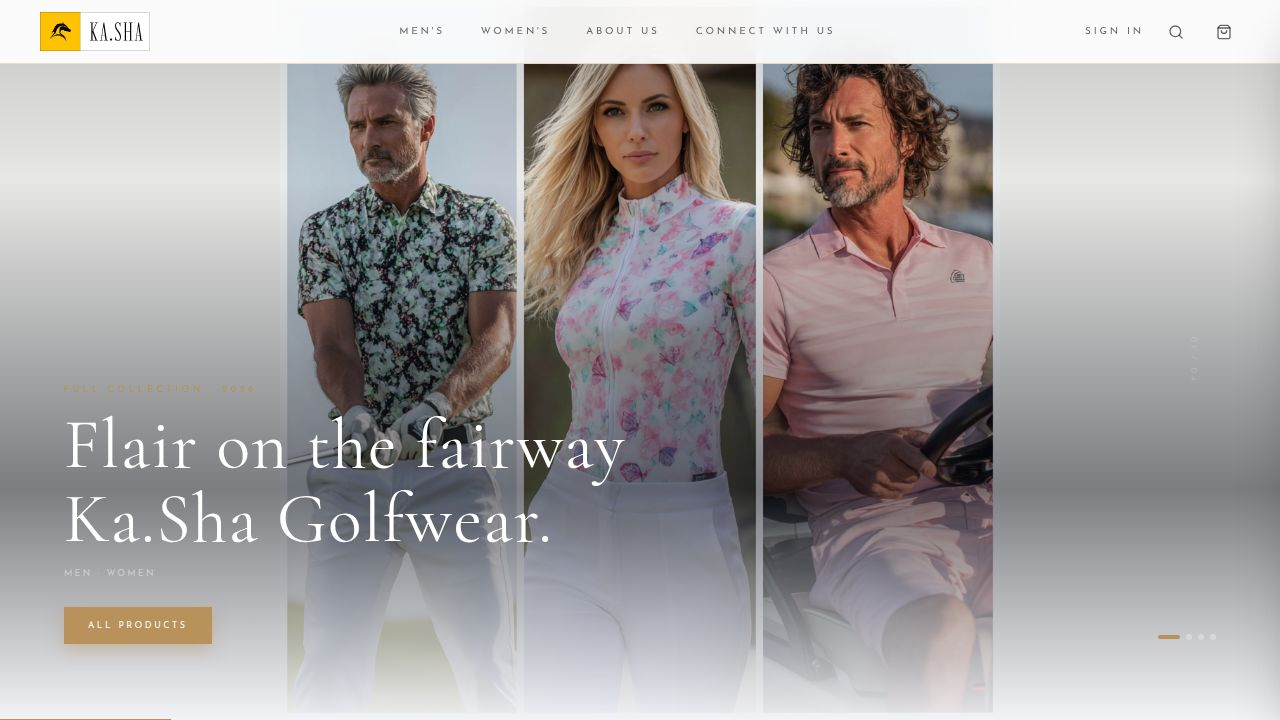
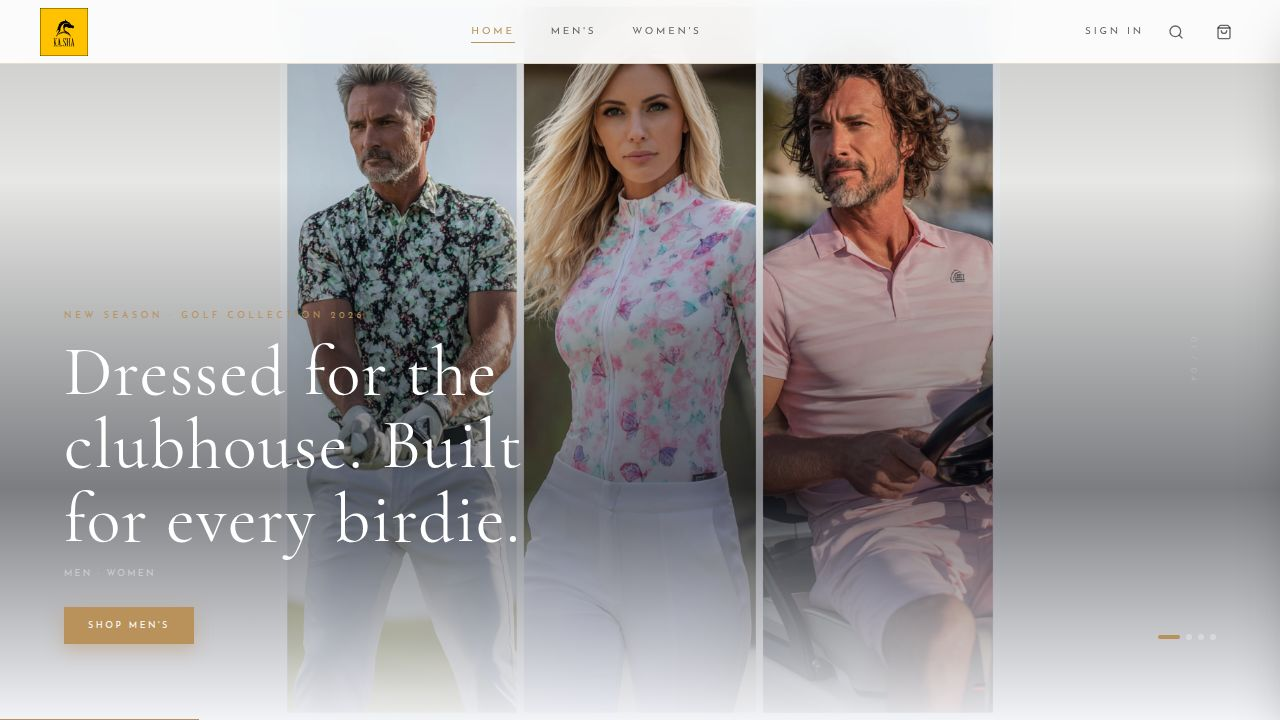
Restored to '608fa75c9377eec898944950cd74e1c2502470fe'
Replit-Restored-To: 608fa75c9377eec898944950cd74e1c2502470fe

diff --git a/artifacts/kasha/src/pages/home.tsx b/artifacts/kasha/src/pages/home.tsx
@@ -7,10 +7,10 @@ import { SHOW_KIDS, SHOW_CUSTOMIZATION } from "@/lib/features";
 const GOLD       = "#B8925A";
 const GOLD_LIGHT = "#D4A96A";
 
-// Cool-toned premium palette — deeper slate for richness without harshness
-const BG_PAGE    = "#E4E8F2";   // cool slate page base
-const BG_SECTION = "#D9DDE9";   // deeper section contrast
-const BG_CARD    = "#ECEEF8";   // card surface
+// Cool-toned premium palette — replaces flat bright whites with depth + hierarchy
+const BG_PAGE    = "#F2F3F7";   // cool slate-white page base
+const BG_SECTION = "#ECEEF4";   // slightly deeper for alternating sections
+const BG_CARD    = "#F7F8FB";   // card surface
 const BG_DARK    = "#0F1622";   // dark navy — bespoke card + studio bar
 
 // ─── Image paths ──────────────────────────────────────────────────────────────
@@ -103,7 +103,7 @@ const PANELS: Record<"men" | "women" | "kids", Card[]> = {
     },
     {
       href:  "/products?gender=men&type=tshirts&style=prints",
-      img:   "/images/shop/men_bottoms.png",
+      img:   "/images/shop/men_flair.png",
       cat:   "T-Shirts",
       title: "Flair",
       desc:  "Statement prints & limited-run designs",
@@ -111,7 +111,7 @@ const PANELS: Record<"men" | "women" | "kids", Card[]> = {
     },
     {
       href:  "/products?gender=men&type=bottoms",
-      img:   "/images/shop/men_flair.png",
+      img:   "/images/shop/men_bottoms.png",
       cat:   "Bottoms",
       title: "Pro Tour Trouser",
       desc:  "Glove dock · Tee holder · 4-way stretch",
@@ -235,6 +235,7 @@ const BULK = [
 // ─── CategoryCard ─────────────────────────────────────────────────────────────
 function CategoryCard({ c }: { c: Card }) {
   if (c.bespoke) {
+    // Dark navy card — exactly as wireframe: #0F1622, gold border
     return (
       <Link
         href={c.href}
@@ -249,17 +250,19 @@ function CategoryCard({ c }: { c: Card }) {
           (e.currentTarget as HTMLElement).style.boxShadow = "none";
         }}
       >
+        {/* Icon area */}
         <div style={{ height: 300, display: "flex", alignItems: "center", justifyContent: "center" }}>
           <div style={{ textAlign: "center", opacity: 0.25 }}>
             <div style={{ fontFamily: "'Cormorant Garamond', serif", fontSize: 40, fontWeight: 200, letterSpacing: "0.3em", color: "#fff", lineHeight: 1 }}>KS</div>
-            <div style={{ fontFamily: "'Josefin Sans', sans-serif", fontSize: 12, letterSpacing: "0.3em", color: GOLD, textTransform: "uppercase", marginTop: 5 }}>{c.bespokeSub}</div>
+            <div style={{ fontFamily: "'Josefin Sans', sans-serif", fontSize: 8, letterSpacing: "0.3em", color: GOLD, textTransform: "uppercase", marginTop: 5 }}>{c.bespokeSub}</div>
           </div>
         </div>
-        <div style={{ padding: "16px 20px 20px", borderTop: "0.5px solid rgba(184,146,90,0.25)" }}>
-          <div style={{ fontFamily: "'Josefin Sans', sans-serif", fontSize: 12, letterSpacing: "0.22em", color: GOLD, textTransform: "uppercase", marginBottom: 6 }}>{c.cat}</div>
-          <div style={{ fontFamily: "'Cormorant Garamond', serif", fontSize: 22, fontWeight: 500, color: "#fff", marginBottom: 6 }}>{c.title}</div>
-          <div style={{ fontFamily: "'Josefin Sans', sans-serif", fontSize: 13, color: "rgba(255,255,255,0.45)", letterSpacing: "0.04em", lineHeight: 1.6, marginBottom: 14 }}>{c.desc}</div>
-          <span style={{ fontFamily: "'Josefin Sans', sans-serif", fontSize: 12, letterSpacing: "0.12em", textTransform: "uppercase", color: GOLD, borderBottom: "0.5px solid rgba(184,146,90,0.4)", paddingBottom: 1 }}>Design yours →</span>
+        {/* Body */}
+        <div style={{ padding: "13px 16px 16px", borderTop: "0.5px solid rgba(184,146,90,0.25)" }}>
+          <div style={{ fontFamily: "'Josefin Sans', sans-serif", fontSize: 8, letterSpacing: "0.22em", color: GOLD, textTransform: "uppercase", marginBottom: 4 }}>{c.cat}</div>
+          <div style={{ fontFamily: "'Cormorant Garamond', serif", fontSize: 16, fontWeight: 500, color: "#fff", marginBottom: 4 }}>{c.title}</div>
+          <div style={{ fontFamily: "'Josefin Sans', sans-serif", fontSize: 10, color: "rgba(255,255,255,0.4)", letterSpacing: "0.04em", lineHeight: 1.6, marginBottom: 10 }}>{c.desc}</div>
+          <span style={{ fontFamily: "'Josefin Sans', sans-serif", fontSize: 9, letterSpacing: "0.12em", textTransform: "uppercase", color: GOLD, borderBottom: "0.5px solid rgba(184,146,90,0.4)", paddingBottom: 1 }}>Design yours →</span>
         </div>
       </Link>
     );
@@ -281,27 +284,27 @@ function CategoryCard({ c }: { c: Card }) {
         (e.currentTarget as HTMLElement).style.boxShadow  = "none";
       }}
     >
-      {/* Image — objectPosition "top" keeps face/upper body in frame */}
-      <div style={{ height: 340, position: "relative", overflow: "hidden" }}>
-        <img src={c.img} alt={c.title} className="w-full h-full object-cover transition-transform duration-700 group-hover:scale-105" style={{ display: "block", objectPosition: "top center" }} />
+      {/* Image */}
+      <div style={{ height: 300, position: "relative", overflow: "hidden" }}>
+        <img src={c.img} alt={c.title} className="w-full h-full object-cover transition-transform duration-700 group-hover:scale-105" style={{ display: "block" }} />
         {c.badge && (
-          <span style={{ position: "absolute", top: 10, left: 10, background: GOLD, color: "#fff", fontFamily: "'Josefin Sans', sans-serif", fontSize: 11, letterSpacing: "0.14em", textTransform: "uppercase", padding: "3px 10px" }}>{c.badge}</span>
+          <span style={{ position: "absolute", top: 10, left: 10, background: GOLD, color: "#fff", fontFamily: "'Josefin Sans', sans-serif", fontSize: 7.5, letterSpacing: "0.16em", textTransform: "uppercase", padding: "2px 8px" }}>{c.badge}</span>
         )}
         <div style={{ position: "absolute", inset: 0, background: "linear-gradient(to top, rgba(15,18,35,0.45) 0%, transparent 55%)" }} />
       </div>
       {/* Body */}
-      <div style={{ padding: "16px 20px 20px" }}>
-        <div style={{ fontFamily: "'Josefin Sans', sans-serif", fontSize: 12, letterSpacing: "0.22em", color: GOLD, textTransform: "uppercase", marginBottom: 6 }}>{c.cat}</div>
-        <div style={{ fontFamily: "'Cormorant Garamond', serif", fontSize: 22, fontWeight: 500, color: "#1a1f2e", marginBottom: 6, lineHeight: 1.2 }}>{c.title}</div>
-        <div style={{ fontFamily: "'Josefin Sans', sans-serif", fontSize: 13, color: "rgba(30,40,80,0.55)", letterSpacing: "0.04em", lineHeight: 1.6, marginBottom: 12 }}>{c.desc}</div>
+      <div style={{ padding: "13px 16px 16px" }}>
+        <div style={{ fontFamily: "'Josefin Sans', sans-serif", fontSize: 8, letterSpacing: "0.22em", color: GOLD, textTransform: "uppercase", marginBottom: 4 }}>{c.cat}</div>
+        <div style={{ fontFamily: "'Cormorant Garamond', serif", fontSize: 16, fontWeight: 500, color: "#1a1f2e", marginBottom: 4, lineHeight: 1.2 }}>{c.title}</div>
+        <div style={{ fontFamily: "'Josefin Sans', sans-serif", fontSize: 10, color: "rgba(30,40,80,0.5)", letterSpacing: "0.04em", lineHeight: 1.6, marginBottom: 10 }}>{c.desc}</div>
         {c.tags.length > 0 && (
-          <div style={{ display: "flex", gap: 5, flexWrap: "wrap", marginBottom: 12 }}>
+          <div style={{ display: "flex", gap: 4, flexWrap: "wrap", marginBottom: 10 }}>
             {c.tags.map((t) => (
-              <span key={t} style={{ fontFamily: "'Josefin Sans', sans-serif", fontSize: 11, letterSpacing: "0.1em", padding: "3px 9px", background: BG_SECTION, color: "rgba(30,40,80,0.6)", borderRadius: 3, textTransform: "uppercase", border: "0.5px solid rgba(30,40,80,0.1)" }}>{t}</span>
+              <span key={t} style={{ fontFamily: "'Josefin Sans', sans-serif", fontSize: 7.5, letterSpacing: "0.1em", padding: "2px 7px", background: BG_SECTION, color: "rgba(30,40,80,0.55)", borderRadius: 3, textTransform: "uppercase", border: "0.5px solid rgba(30,40,80,0.08)" }}>{t}</span>
             ))}
           </div>
         )}
-        <span style={{ fontFamily: "'Josefin Sans', sans-serif", fontSize: 12, letterSpacing: "0.12em", textTransform: "uppercase", color: "#1a1f2e", borderBottom: "0.5px solid rgba(30,40,80,0.15)", paddingBottom: 1 }}>Shop →</span>
+        <span style={{ fontFamily: "'Josefin Sans', sans-serif", fontSize: 9, letterSpacing: "0.12em", textTransform: "uppercase", color: "#1a1f2e", borderBottom: "0.5px solid rgba(30,40,80,0.15)", paddingBottom: 1 }}>Shop →</span>
       </div>
     </Link>
   );
@@ -358,7 +361,7 @@ export default function Home() {
                   inset:      0,
                   width:      "100%",
                   height:     "100%",
-                  objectFit:  "cover",
+                  objectFit:  "contain",
                   transform:  i === active ? "scale(1)" : "scale(1.06)",
                   transition: "transform 8s ease-out",
                 }}
@@ -381,11 +384,11 @@ export default function Home() {
               }}>
                 <div style={{
                   fontFamily:    "'Josefin Sans', sans-serif",
-                  fontSize:      13,
-                  letterSpacing: "0.35em",
+                  fontSize:      9,
+                  letterSpacing: "0.4em",
                   color:         GOLD,
                   textTransform: "uppercase",
-                  marginBottom:  14,
+                  marginBottom:  12,
                   opacity:       i === active ? 1 : 0,
                   transform:     i === active ? "translateY(0)" : "translateY(14px)",
                   transition:    "opacity 0.7s 0.2s ease, transform 0.7s 0.2s ease",
@@ -394,12 +397,12 @@ export default function Home() {
                 </div>
                 <h1 style={{
                   fontFamily:    "'Cormorant Garamond', serif",
-                  fontSize:      "clamp(44px, 5.5vw, 72px)",
+                  fontSize:      "clamp(40px, 5.5vw, 70px)",
                   fontWeight:    400,
                   lineHeight:    1.05,
                   letterSpacing: "0.02em",
                   color:         "#fff",
-                  marginBottom:  14,
+                  marginBottom:  12,
                   opacity:       i === active ? 1 : 0,
                   transform:     i === active ? "translateY(0)" : "translateY(22px)",
                   transition:    "opacity 0.8s 0.35s ease, transform 0.8s 0.35s ease",
@@ -408,11 +411,11 @@ export default function Home() {
                 </h1>
                 <p style={{
                   fontFamily:    "'Josefin Sans', sans-serif",
-                  fontSize:      13,
-                  letterSpacing: "0.22em",
-                  color:         "rgba(255,255,255,0.65)",
+                  fontSize:      9,
+                  letterSpacing: "0.25em",
+                  color:         "rgba(255,255,255,0.45)",
                   textTransform: "uppercase",
-                  marginBottom:  28,
+                  marginBottom:  26,
                   opacity:       i === active ? 1 : 0,
                   transition:    "opacity 0.7s 0.5s ease",
                 }}>
@@ -433,10 +436,10 @@ export default function Home() {
                       background:    GOLD,
                       color:         "#fff",
                       fontFamily:    "'Josefin Sans', sans-serif",
-                      fontSize:      12,
-                      letterSpacing: "0.25em",
+                      fontSize:      9,
+                      letterSpacing: "0.28em",
                       textTransform: "uppercase",
-                      padding:       "13px 28px",
+                      padding:       "12px 24px",
                       display:       "inline-block",
                       transition:    "background 0.2s, transform 0.2s",
                       boxShadow:     "0 6px 18px rgba(184,146,90,0.4)",
@@ -453,13 +456,13 @@ export default function Home() {
                       style={{
                         background:    "rgba(255,255,255,0.08)",
                         backdropFilter:"blur(8px)",
-                        color:         "rgba(255,255,255,0.82)",
+                        color:         "rgba(255,255,255,0.72)",
                         fontFamily:    "'Josefin Sans', sans-serif",
-                        fontSize:      12,
-                        letterSpacing: "0.25em",
+                        fontSize:      9,
+                        letterSpacing: "0.28em",
                         textTransform: "uppercase",
-                        padding:       "12px 24px",
-                        border:        "0.5px solid rgba(255,255,255,0.38)",
+                        padding:       "11px 24px",
+                        border:        "0.5px solid rgba(255,255,255,0.32)",
                         display:       "inline-block",
                         transition:    "border-color 0.2s, color 0.2s",
                       }}
@@ -524,12 +527,12 @@ export default function Home() {
         <div style={{ maxWidth: '100%', margin: "0 auto", padding: `52px ${PAD} 56px` }}>
 
           {/* Header */}
-          <div style={{ borderBottom: "0.5px solid rgba(30,40,80,0.12)", marginBottom: 0 }}>
+          <div style={{ borderBottom: "0.5px solid rgba(30,40,80,0.1)", marginBottom: 0 }}>
             <div style={{ paddingBottom: 18 }}>
-              <div style={{ fontFamily: "'Josefin Sans', sans-serif", fontSize: 12, letterSpacing: "0.35em", color: GOLD, textTransform: "uppercase", marginBottom: 10 }}>
+              <div style={{ fontFamily: "'Josefin Sans', sans-serif", fontSize: 8, letterSpacing: "0.4em", color: GOLD, textTransform: "uppercase", marginBottom: 8 }}>
                 Collections
               </div>
-              <h2 style={{ fontFamily: "'Cormorant Garamond', serif", fontSize: "clamp(30px,3vw,44px)", fontWeight: 400, letterSpacing: "0.02em", color: "#1a1f2e" }}>
+              <h2 style={{ fontFamily: "'Cormorant Garamond', serif", fontSize: "clamp(26px,3vw,40px)", fontWeight: 400, letterSpacing: "0.02em", color: "#1a1f2e" }}>
                 Shop by Category
               </h2>
             </div>
@@ -544,16 +547,16 @@ export default function Home() {
                     onClick={() => setTab(t as "men" | "women" | "kids")}
                     style={{
                       fontFamily:    "'Josefin Sans', sans-serif",
-                      fontSize:      15,
-                      fontWeight:    600,
-                      letterSpacing: "0.15em",
+                      fontSize:      10,
+                      fontWeight:    500,
+                      letterSpacing: "0.18em",
                       textTransform: "uppercase",
-                      color:         on ? GOLD : "rgba(30,40,80,0.45)",
+                      color:         on ? GOLD : "rgba(30,40,80,0.4)",
                       background:    "none",
                       border:        "none",
                       borderBottom:  on ? `2px solid ${GOLD}` : "2px solid transparent",
-                      padding:       "12px 20px 12px 0",
-                      marginRight:   28,
+                      padding:       "12px 18px 12px 0",
+                      marginRight:   24,
                       cursor:        "pointer",
                       position:      "relative",
                       bottom:        -0.5,
@@ -605,13 +608,13 @@ export default function Home() {
         }}>
           {/* Left block */}
           <div style={{ flex: 1, minWidth: 240 }}>
-            <div style={{ fontFamily: "'Josefin Sans', sans-serif", fontSize: 12, letterSpacing: "0.28em", color: GOLD, textTransform: "uppercase", marginBottom: 10 }}>
+            <div style={{ fontFamily: "'Josefin Sans', sans-serif", fontSize: 8, letterSpacing: "0.28em", color: GOLD, textTransform: "uppercase", marginBottom: 8 }}>
               Custom Studio
             </div>
-            <div style={{ fontFamily: "'Cormorant Garamond', serif", fontSize: "clamp(18px,1.8vw,24px)", fontWeight: 500, color: "#fff", lineHeight: 1.35, marginBottom: 6 }}>
+            <div style={{ fontFamily: "'Cormorant Garamond', serif", fontSize: "clamp(15px,1.6vw,19px)", fontWeight: 500, color: "#fff", lineHeight: 1.35, marginBottom: 4 }}>
               Choose your colour, print, pattern, size<br />or upload your logo.
             </div>
-            <div style={{ fontFamily: "'Josefin Sans', sans-serif", fontSize: 13, letterSpacing: "0.1em", color: "rgba(255,255,255,0.5)", textTransform: "uppercase", marginBottom: 16 }}>
+            <div style={{ fontFamily: "'Josefin Sans', sans-serif", fontSize: 10, letterSpacing: "0.1em", color: "rgba(255,255,255,0.38)", textTransform: "uppercase", marginBottom: 14 }}>
               Your game, your t-shirt.
             </div>
             {/* Interactive toggle chips */}
@@ -624,13 +627,13 @@ export default function Home() {
                     onClick={() => toggleChip(chip)}
                     style={{
                       fontFamily:    "'Josefin Sans', sans-serif",
-                      fontSize:      12,
+                      fontSize:      8,
                       letterSpacing: "0.1em",
-                      padding:       "5px 12px",
+                      padding:       "4px 10px",
                       borderRadius:  3,
                       border:        `0.5px solid ${on ? GOLD : "rgba(184,146,90,0.35)"}`,
                       background:    on ? GOLD : "transparent",
-                      color:         on ? "#fff" : "rgba(255,255,255,0.6)",
+                      color:         on ? "#fff" : "rgba(255,255,255,0.55)",
                       textTransform: "uppercase",
                       cursor:        "pointer",
                       transition:    "all 0.2s ease",
@@ -644,17 +647,17 @@ export default function Home() {
           </div>
 
           {/* Right CTAs */}
-          <div style={{ display: "flex", flexDirection: "column", gap: 10, alignItems: "flex-start", flexShrink: 0 }}>
+          <div style={{ display: "flex", flexDirection: "column", gap: 8, alignItems: "flex-start", flexShrink: 0 }}>
             <Link
               href="/products/1/customize"
               style={{
                 background:    GOLD,
                 color:         "#fff",
                 fontFamily:    "'Josefin Sans', sans-serif",
-                fontSize:      12,
+                fontSize:      9,
                 letterSpacing: "0.2em",
                 textTransform: "uppercase",
-                padding:       "13px 24px",
+                padding:       "11px 20px",
                 whiteSpace:    "nowrap",
                 display:       "inline-block",
                 transition:    "background 0.2s",
@@ -668,17 +671,17 @@ export default function Home() {
               href="/products/1/customize"
               style={{
                 fontFamily:    "'Josefin Sans', sans-serif",
-                fontSize:      12,
+                fontSize:      9,
                 letterSpacing: "0.14em",
-                color:         "rgba(255,255,255,0.4)",
+                color:         "rgba(255,255,255,0.3)",
                 textTransform: "uppercase",
-                borderBottom:  "0.5px solid rgba(255,255,255,0.18)",
+                borderBottom:  "0.5px solid rgba(255,255,255,0.14)",
                 paddingBottom: 1,
                 whiteSpace:    "nowrap",
                 transition:    "color 0.2s",
               }}
-              onMouseEnter={(e) => ((e.currentTarget as HTMLElement).style.color = "rgba(255,255,255,0.75)")}
-              onMouseLeave={(e) => ((e.currentTarget as HTMLElement).style.color = "rgba(255,255,255,0.4)")}
+              onMouseEnter={(e) => ((e.currentTarget as HTMLElement).style.color = "rgba(255,255,255,0.65)")}
+              onMouseLeave={(e) => ((e.currentTarget as HTMLElement).style.color = "rgba(255,255,255,0.3)")}
             >
               Bulk & corporate pricing →
             </Link>
@@ -696,11 +699,11 @@ export default function Home() {
         <div style={{ maxWidth: "100%", margin: "0 auto", padding: `48px ${PAD} 56px` }}>
 
           {/* Header */}
-          <div style={{ marginBottom: 28 }}>
-            <div style={{ fontFamily: "'Josefin Sans', sans-serif", fontSize: 12, letterSpacing: "0.4em", color: GOLD, textTransform: "uppercase", marginBottom: 10 }}>
+          <div style={{ marginBottom: 24 }}>
+            <div style={{ fontFamily: "'Josefin Sans', sans-serif", fontSize: 8, letterSpacing: "0.4em", color: GOLD, textTransform: "uppercase", marginBottom: 8 }}>
               Bulk &amp; Corporate
             </div>
-            <h2 style={{ fontFamily: "'Cormorant Garamond', serif", fontSize: "clamp(30px,3vw,44px)", fontWeight: 400, color: "#1a1f2e", lineHeight: 1.2 }}>
+            <h2 style={{ fontFamily: "'Cormorant Garamond', serif", fontSize: "clamp(26px,3vw,40px)", fontWeight: 400, color: "#1a1f2e", lineHeight: 1.2 }}>
               Outfit Your Event,<br />Academy or Club
             </h2>
           </div>
@@ -721,18 +724,18 @@ export default function Home() {
                 <div style={{ height: 300, position: "relative", overflow: "hidden" }}>
                   <img src={b.img} alt={b.title} style={{ width: "100%", height: "100%", objectFit: "cover", objectPosition: "top", display: "block" }} />
                   <div style={{ position: "absolute", inset: 0, background: "linear-gradient(to top, rgba(15,18,35,0.4) 0%, transparent 55%)" }} />
-                  <span style={{ position: "absolute", top: 10, left: 12, fontFamily: "'Josefin Sans', sans-serif", fontSize: 11, letterSpacing: "0.18em", color: GOLD, textTransform: "uppercase" }}>
+                  <span style={{ position: "absolute", top: 8, left: 10, fontFamily: "'Josefin Sans', sans-serif", fontSize: 7.5, letterSpacing: "0.18em", color: GOLD, textTransform: "uppercase" }}>
                     {b.from}
                   </span>
                 </div>
                 {/* Body */}
-                <div style={{ padding: "16px 20px 20px" }}>
-                  <div style={{ fontFamily: "'Josefin Sans', sans-serif", fontSize: 12, letterSpacing: "0.2em", color: GOLD, textTransform: "uppercase", marginBottom: 6 }}>{b.num}</div>
-                  <div style={{ fontFamily: "'Cormorant Garamond', serif", fontSize: 22, fontWeight: 500, color: "#1a1f2e", marginBottom: 8 }}>{b.title}</div>
-                  <div style={{ fontFamily: "'Josefin Sans', sans-serif", fontSize: 13, color: "rgba(30,40,80,0.6)", letterSpacing: "0.04em", lineHeight: 1.65, marginBottom: 12 }}>{b.desc}</div>
-                  <div style={{ display: "flex", gap: 5, flexWrap: "wrap" }}>
+                <div style={{ padding: "13px 16px 16px" }}>
+                  <div style={{ fontFamily: "'Josefin Sans', sans-serif", fontSize: 8, letterSpacing: "0.2em", color: GOLD, textTransform: "uppercase", marginBottom: 4 }}>{b.num}</div>
+                  <div style={{ fontFamily: "'Cormorant Garamond', serif", fontSize: 16, fontWeight: 500, color: "#1a1f2e", marginBottom: 6 }}>{b.title}</div>
+                  <div style={{ fontFamily: "'Josefin Sans', sans-serif", fontSize: 10, color: "rgba(30,40,80,0.5)", letterSpacing: "0.04em", lineHeight: 1.65, marginBottom: 10 }}>{b.desc}</div>
+                  <div style={{ display: "flex", gap: 4, flexWrap: "wrap" }}>
                     {b.tags.map((t) => (
-                      <span key={t} style={{ fontFamily: "'Josefin Sans', sans-serif", fontSize: 11, padding: "3px 9px", background: BG_SECTION, color: "rgba(30,40,80,0.55)", borderRadius: 3, letterSpacing: "0.08em", textTransform: "uppercase", border: "0.5px solid rgba(30,40,80,0.1)" }}>{t}</span>
+                      <span key={t} style={{ fontFamily: "'Josefin Sans', sans-serif", fontSize: 7.5, padding: "2px 7px", background: BG_SECTION, color: "rgba(30,40,80,0.5)", borderRadius: 3, letterSpacing: "0.08em", textTransform: "uppercase", border: "0.5px solid rgba(30,40,80,0.08)" }}>{t}</span>
                     ))}
                   </div>
                 </div>

diff --git a/artifacts/kasha/src/pages/admin.tsx b/artifacts/kasha/src/pages/admin.tsx
@@ -750,7 +750,7 @@ export default function AdminPage() {
                       </label>
                     </div>
                     {form.thumbnailUrl && (
-                      <img src={getAssetUrl(form.thumbnailUrl)} alt="Thumbnail" className="border border-input mt-1 object-contain bg-gray-50" style={{ height: 180, width: 140 }} />
+                      <img src={getAssetUrl(form.thumbnailUrl)} alt="Thumbnail" className="h-24 w-24 object-cover border border-input mt-1" />
                     )}
                   </div>
 
@@ -772,7 +772,7 @@ export default function AdminPage() {
                         <div className="flex flex-wrap gap-2 mt-1">
                           {imgs.map((url, idx) => (
                             <div key={idx} className="relative group">
-                              <img src={url} alt={`Extra ${idx + 1}`} className="object-contain border border-input bg-gray-50" style={{ height: 160, width: 120 }} />
+                              <img src={url} alt={`Extra ${idx + 1}`} className="h-20 w-20 object-cover border border-input" />
                               <button
                                 type="button"
                                 onClick={() => removeExtraImage(idx)}
